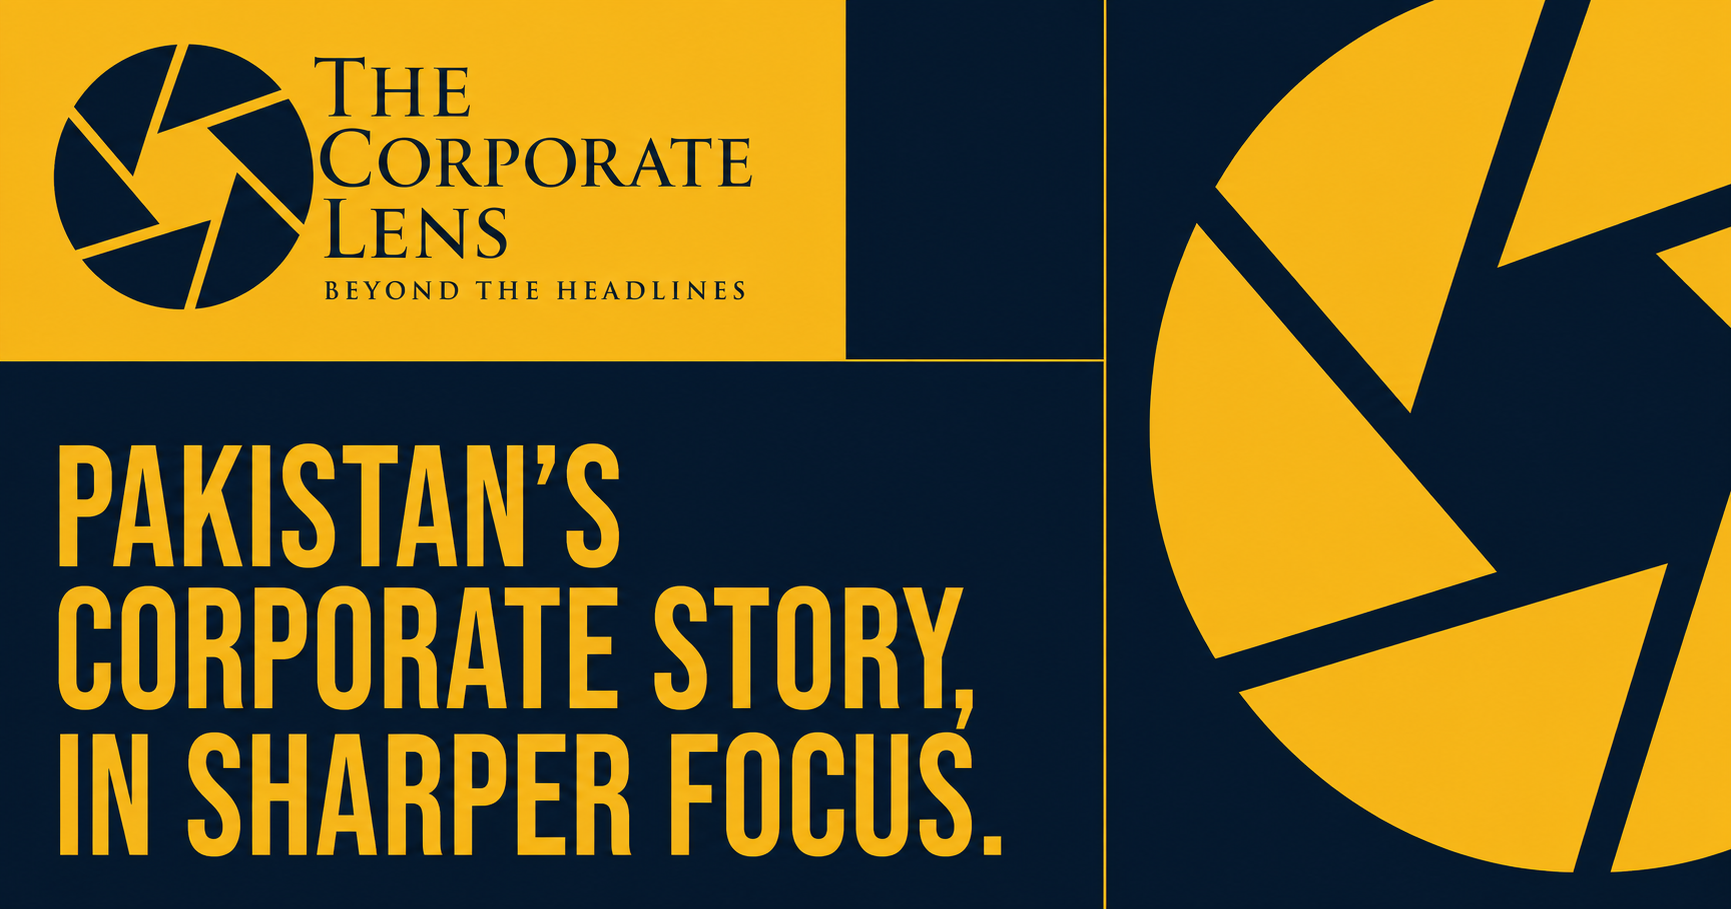
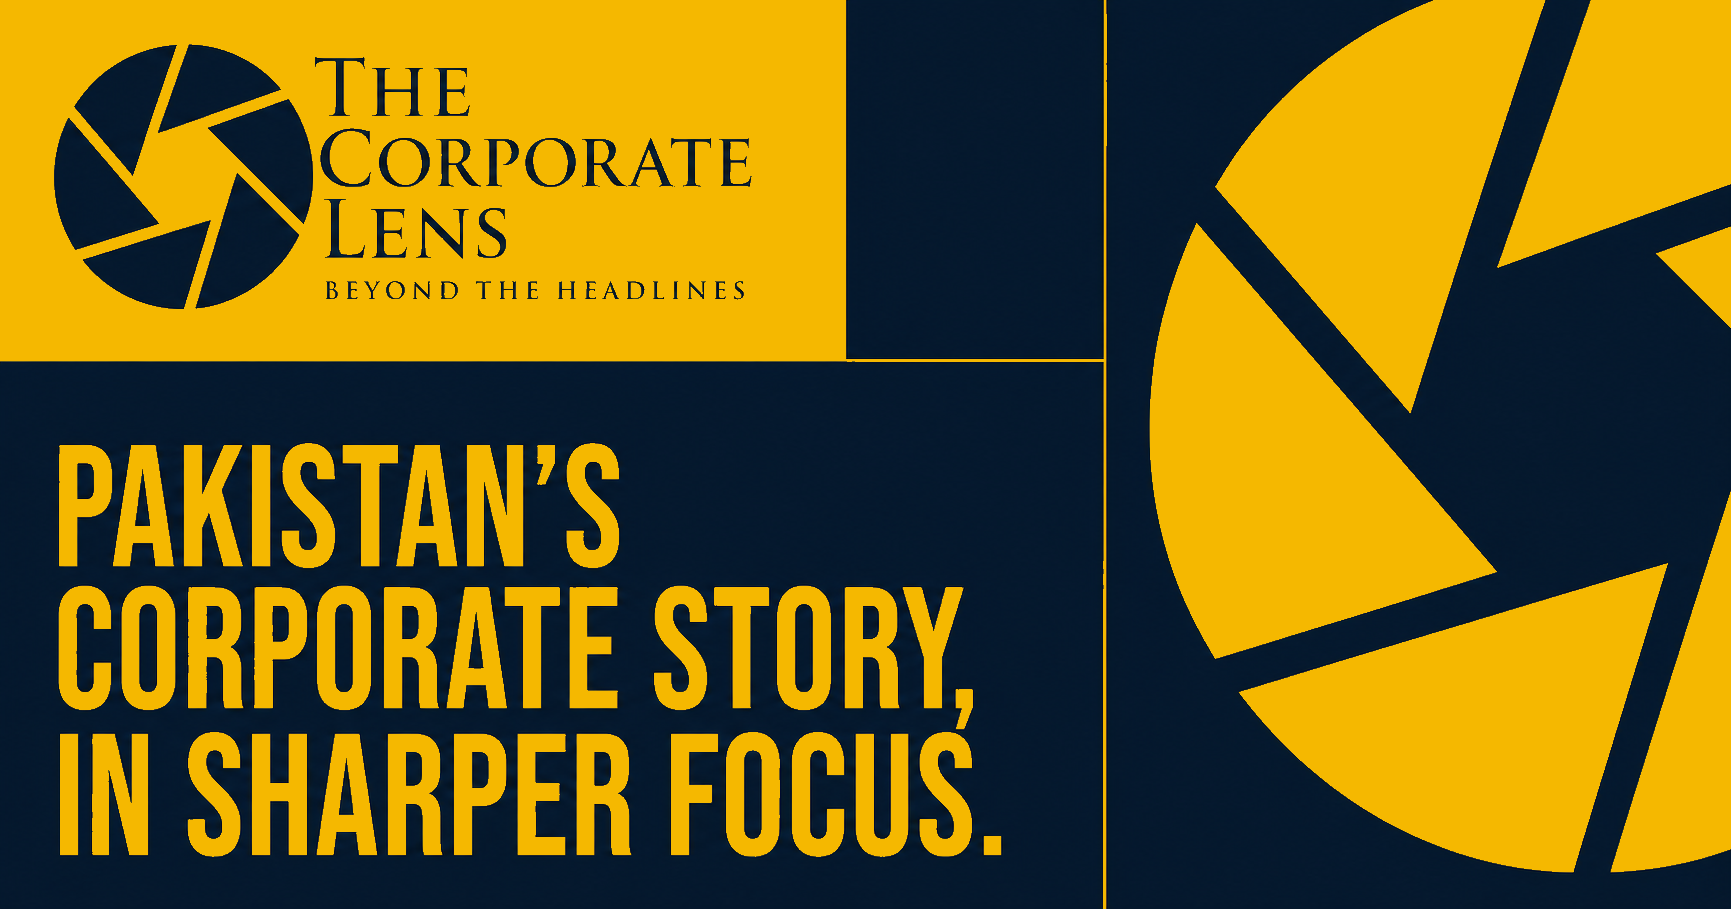
Update brand gold color across UI and assets

diff --git a/components/TeamCard.tsx b/components/TeamCard.tsx
@@ -26,7 +26,7 @@ export function TeamCard({ Icon = UserRound, compact = false, description, index
       viewport={{ once: true, amount: 0.24 }}
       transition={{ duration: 0.52, ease: [0.22, 1, 0.36, 1], delay: Math.min(index * 0.065, 0.2) }}
       whileHover={{ y: -5 }}
-      className={cn("rounded-sm border border-line bg-white p-6 transition hover:border-brand-navy hover:shadow-[8px_8px_0_#f6bc23]", !compact && "sm:p-8")}
+      className={cn("rounded-sm border border-line bg-white p-6 transition hover:border-brand-navy hover:shadow-[8px_8px_0_#F5B800]", !compact && "sm:p-8")}
     >
       <div className="flex flex-col gap-5 sm:flex-row sm:items-start">
         <div className="flex size-16 shrink-0 items-center justify-center rounded-sm border border-brand-navy bg-brand-gold text-brand-navy">

diff --git a/components/Button.tsx b/components/Button.tsx
@@ -12,7 +12,7 @@ type ButtonProps = {
 };
 
 const variants = {
-  primary: "bg-brand-navy text-white shadow-[6px_6px_0_#f6bc23] hover:-translate-y-0.5 hover:shadow-[8px_8px_0_#f6bc23]",
+  primary: "bg-brand-navy text-white shadow-[6px_6px_0_#F5B800] hover:-translate-y-0.5 hover:shadow-[8px_8px_0_#F5B800]",
   secondary: "border border-brand-navy bg-white text-brand-navy hover:bg-paper",
   gold: "bg-brand-gold text-brand-navy shadow-[6px_6px_0_rgba(255,255,255,0.28)] hover:-translate-y-0.5",
   ghost: "text-brand-navy underline decoration-brand-gold decoration-4 underline-offset-8 hover:text-brand-navy/70",

diff --git a/components/ContactForm.tsx b/components/ContactForm.tsx
@@ -6,7 +6,7 @@ import { Send } from "lucide-react";
 import { Button } from "@/components/Button";
 
 const fieldClass =
-  "min-h-12 rounded-sm border border-line bg-white px-4 py-3 text-lg text-brand-navy outline-none transition placeholder:text-brand-navy/42 focus:border-brand-navy focus:shadow-[4px_4px_0_#f6bc23]";
+  "min-h-12 rounded-sm border border-line bg-white px-4 py-3 text-lg text-brand-navy outline-none transition placeholder:text-brand-navy/42 focus:border-brand-navy focus:shadow-[4px_4px_0_#F5B800]";
 
 export function ContactForm() {
   const [sent, setSent] = useState(false);

diff --git a/components/FeatureCard.tsx b/components/FeatureCard.tsx
@@ -23,7 +23,7 @@ export function FeatureCard({ copy, dark = false, Icon, index = 0, title }: Feat
         "group grid min-h-64 rounded-sm border p-6 transition",
         dark
           ? "border-white/14 bg-white/[0.04] text-white hover:border-brand-gold"
-          : "border-line bg-white text-brand-navy hover:border-brand-navy hover:shadow-[8px_8px_0_#f6bc23]",
+          : "border-line bg-white text-brand-navy hover:border-brand-navy hover:shadow-[8px_8px_0_#F5B800]",
       )}
     >
       <div>

diff --git a/app/globals.css b/app/globals.css
@@ -1,7 +1,7 @@
 @import "tailwindcss";
 
 :root {
-  --gold: #f6bc23;
+  --gold: #F5B800;
   --navy: #0f1c2a;
   --section-space: clamp(5rem, 10vw, 9rem);
   --shell: min(1180px, calc(100% - 2.5rem));
